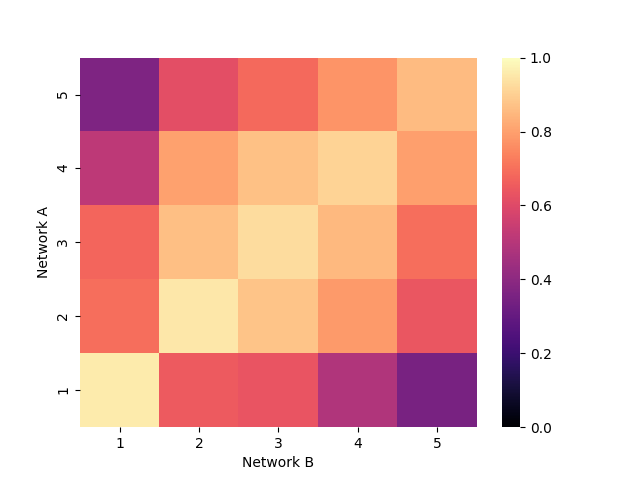
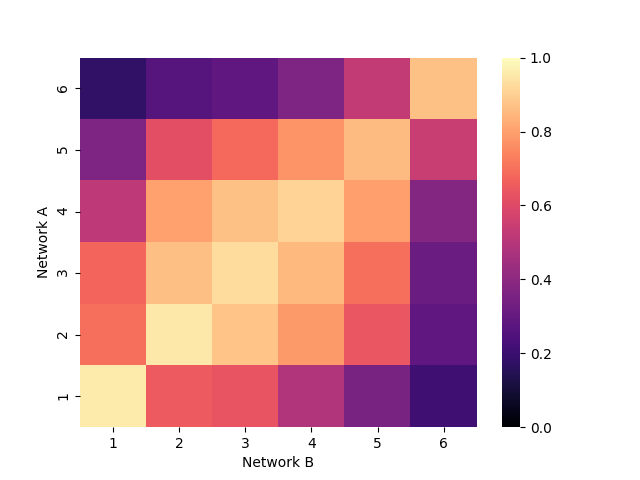
visualize cka of trained/untrained

diff --git a/visualization/visualize.py b/visualization/visualize.py
@@ -5,7 +5,7 @@ import numpy as np
 dir = '../converter/untrained/'
 a = np.loadtxt(dir + 'cka.txt')
 a = np.flipud(a)
-t= sns.heatmap(a, vmin=0.00, vmax=1.00, cmap='magma', xticklabels=list(range(1,6)),yticklabels=list(range(5,0,-1)))
+t= sns.heatmap(a, vmin=0.00, vmax=1.00, cmap='magma', xticklabels=list(range(1,a.shape[0] + 1)),yticklabels=list(range(a.shape[0],0,-1)))
 
 t.set(xlabel='Network B',ylabel='Network A')
 

diff --git a/cifar10.py b/cifar10.py
@@ -68,6 +68,7 @@ class CNN(nn.Module):
             x = layer(x)
             self.feat.append(x.view(x.size(0), -1))
         output = self.out(x).view(x.size(0), 10)
+        self.feat.append(output)
         return output
 
     def forward_to(self, x, to):
